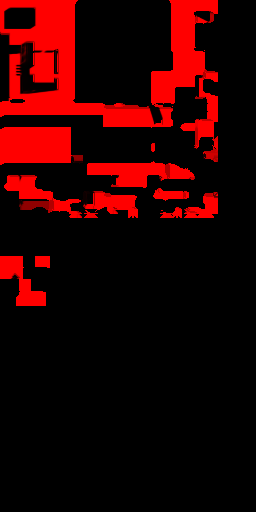
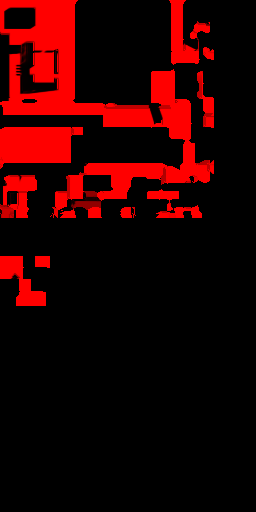
Update readme & example lightmap

diff --git a/README.md b/README.md
@@ -16,6 +16,7 @@ If you want to use this and are interested in the development, feel free to get 
 Backbone of your map!
 - Making solids
 - Per face, edge, and vertex editing
+- Lightmap GI compatible!
 ### Decals
 Splat all over your map! Forget post-process decals with optimized render paths get your fill-rate destroying mesh-hugging decals here!
 - Mesh-based decals that use map geometry